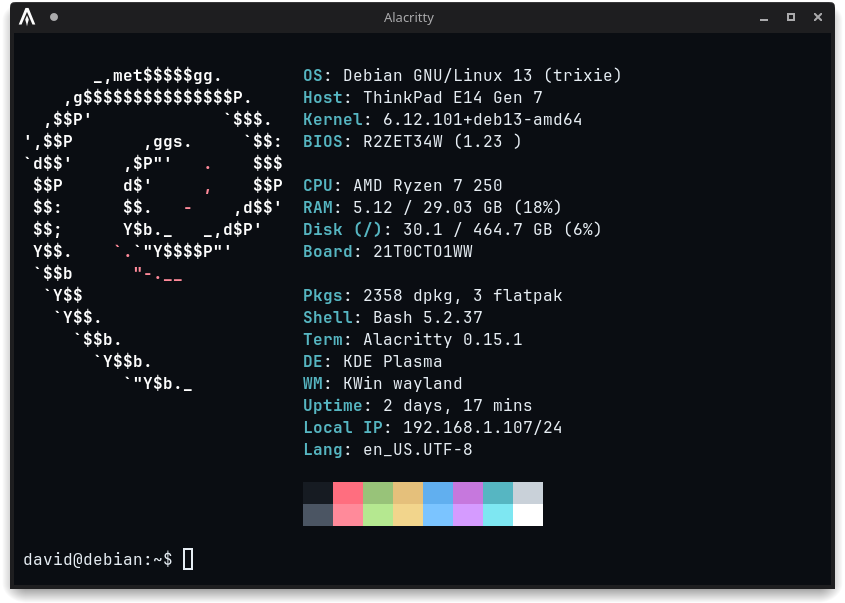
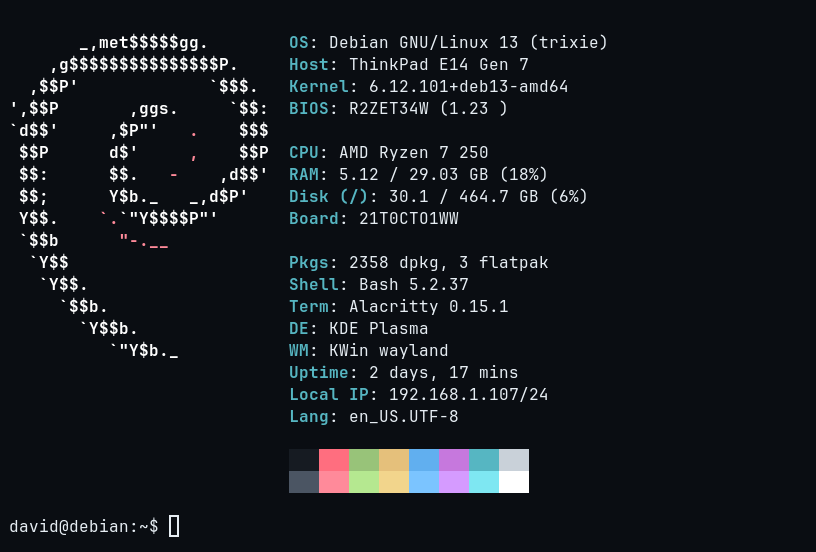
Added color formatting to info

Changed region(s): [[0.0, 0.0, 1.0, 1.0], [0.337, 0.462, 0.674, 0.7699], [0.337, 0.8007, 0.674, 0.8931]]

diff --git a/internal/config/format.go b/internal/config/format.go
@@ -10,22 +10,30 @@ func Fields(format string) []string {
 	var result []string
 
 	for i := 0; i < len(format); {
-		start := strings.IndexByte(format[i:], '{')
-		if start == -1 {
-			break
+		if i+1 < len(format) && format[i] == '$' && format[i+1] == '{' {
+			end := strings.IndexByte(format[i+2:], '}')
+			if end == -1 {
+				break
+			}
+
+			i = i + 2 + end + 1
+			continue
 		}
 
-		start += i
+		if format[i] == '{' {
+			end := strings.IndexByte(format[i+1:], '}')
+			if end == -1 {
+				break
+			}
 
-		end := strings.IndexByte(format[start:], '}')
-		if end == -1 {
-			break
+			end += i + 1
+
+			result = append(result, format[i+1:end])
+			i = end + 1
+			continue
 		}
 
-		end += start
-
-		result = append(result, format[start+1:end])
-		i = end + 1
+		i++
 	}
 
 	return result
@@ -35,34 +43,43 @@ func Format(format string, values Values) string {
 	var output strings.Builder
 
 	for i := 0; i < len(format); {
-		start := strings.IndexByte(format[i:], '{')
+		if i+1 < len(format) && format[i] == '$' && format[i+1] == '{' {
+			end := strings.IndexByte(format[i+2:], '}')
+			if end == -1 {
+				output.WriteString(format[i:])
+				break
+			}
 
-		if start == -1 {
-			output.WriteString(format[i:])
-			break
+			end += i + 2
+
+			output.WriteString(format[i : end+1])
+			i = end + 1
+			continue
 		}
 
-		start += i
+		if format[i] == '{' {
+			end := strings.IndexByte(format[i+1:], '}')
+			if end == -1 {
+				output.WriteString(format[i:])
+				break
+			}
 
-		output.WriteString(format[i:start])
+			end += i + 1
 
-		end := strings.IndexByte(format[start:], '}')
-		if end == -1 {
-			output.WriteString(format[start:])
-			break
+			key := format[i+1 : end]
+
+			if value, ok := values[key]; ok {
+				output.WriteString(value)
+			} else {
+				output.WriteString(format[i : end+1])
+			}
+
+			i = end + 1
+			continue
 		}
 
-		end += start
-
-		key := format[start+1 : end]
-
-		if value, ok := values[key]; ok {
-			output.WriteString(value)
-		} else {
-			output.WriteString(format[start : end+1])
-		}
-
-		i = end + 1
+		output.WriteByte(format[i])
+		i++
 	}
 
 	return output.String()

diff --git a/internal/output/output.go b/internal/output/output.go
@@ -92,14 +92,19 @@ func PrintOutput(asciiLines, infoLines []string, NoColor bool) {
 		renderedAscii[i] = ApplyColorTags(line, NoColor)
 	}
 
+	// Expand multiline module output and apply inline colors.
+	infoLines = expandInfoLines(infoLines)
+
+	for i, line := range infoLines {
+		infoLines[i] = ApplyColorTags(line, NoColor)
+	}
+
 	if len(renderedAscii) == 0 {
 		for _, line := range infoLines {
 			fmt.Println(line)
 		}
 		return
 	}
-
-	infoLines = expandInfoLines(infoLines)
 
 	width := getMaxWidth(renderedAscii)
 	total := max(len(renderedAscii), len(infoLines))
@@ -146,18 +151,17 @@ func getMaxWidth(lines []string) int {
 var colorTagRE = regexp.MustCompile(`\$\{([^}]+)\}`)
 
 func ApplyColorTags(line string, NoColor bool) string {
+	if NoColor {
+		return colorTagRE.ReplaceAllString(line, "")
+	}
 
 	result := colorTagRE.ReplaceAllStringFunc(line, func(tag string) string {
-		name := strings.TrimSuffix(strings.TrimPrefix(tag, "${"), "}")
+		name := tag[2 : len(tag)-1]
 
-		if strings.EqualFold(name, "reset") {
-			return config.GetColorCode("reset", NoColor)
-		}
-
-		return config.GetColorCode(name, NoColor)
+		return config.GetColorCode(name, false)
 	})
 
-	return result + config.GetColorCode("reset", NoColor)
+	return result + config.GetColorCode("reset", false)
 }
 
 // helps make it so modules spanning multiple lines don't cut through the ascii art

diff --git a/internal/cmd/parseflags.go b/internal/cmd/parseflags.go
@@ -19,7 +19,7 @@ type Options struct {
 func ParseFlags() Options {
 	var opts Options
 
-	fs := pflag.NewFlagSet("myapp", pflag.ExitOnError)
+	fs := pflag.NewFlagSet("Dfetch", pflag.ExitOnError)
 
 	fs.BoolVarP(&opts.NoLogo, "no-logo", "l", false, "Disable ASCII art for this run")
 	fs.BoolVarP(&opts.NoColor, "no-color", "C", false, "Disable color output for this run")
@@ -59,7 +59,7 @@ func listModules() {
  terminal     Current terminal
  disk         Disk usage
  time         Current time
- date          Current date
+ date         Current date
  packages     Installed packages
  host         Device model
  board        Motherboard name

diff --git a/internal/config/colors.go b/internal/config/colors.go
@@ -1,8 +1,6 @@
 package config
 
-import (
-	"strings"
-)
+import "strings"
 
 func GetColorCode(accentColor string, NoColor bool) string {
 	if NoColor {
@@ -10,6 +8,8 @@ func GetColorCode(accentColor string, NoColor bool) string {
 	}
 
 	switch strings.ToLower(accentColor) {
+	case "reset":
+		return "\x1b[0m"
 
 	case "black", "1":
 		return "\x1b[30m"
@@ -78,8 +78,7 @@ func GetColorCode(accentColor string, NoColor bool) string {
 		return "\x1b[1;96m"
 	case "bold_bright_white", "32":
 		return "\x1b[1;97m"
-
-	default:
-		return "\x1b[0m"
 	}
+
+	return ""
 }

diff --git a/internal/modules/systeminfo.go b/internal/modules/systeminfo.go
@@ -26,7 +26,9 @@ func CollectSystemInfo(modules []config.Module, distroName string, opts cmd.Opti
 			value = Userinfo(module.Format, module.Color, opts.NoColor)
 
 		case "os":
-			value = distroName
+			value = config.Format(module.Format, config.Values{
+				"name": distroName,
+			})
 
 		case "kernel":
 			value = Kernel(module.Format)

diff --git a/documentation/CUSTOMIZATION.md b/documentation/CUSTOMIZATION.md
@@ -1,13 +1,13 @@
 # Customization
 
-The configuration file is stored in `~/.config/Dfetch`. Every time Dfetch is started, it checks if this file exists. If it doesn't, a default configuration file is created automatically.
+The configuration file is stored in `~/.config/Dfetch`. Every time Dfetch is started, it checks if this file exists. If it doesn't, it is created automatically.
 
 The configuration file can be reset by running Dfetch with `--reset-config`.
 
 The configuration file contains two sections:
 
 * `ascii` - Controls the ASCII art displayed by Dfetch.
-* `modules` - Controls which modules are displayed and how they are formatted.
+* `modules` - Controls which modules are displayed in what way and how info is formatted.
 
 ## ASCII
 
